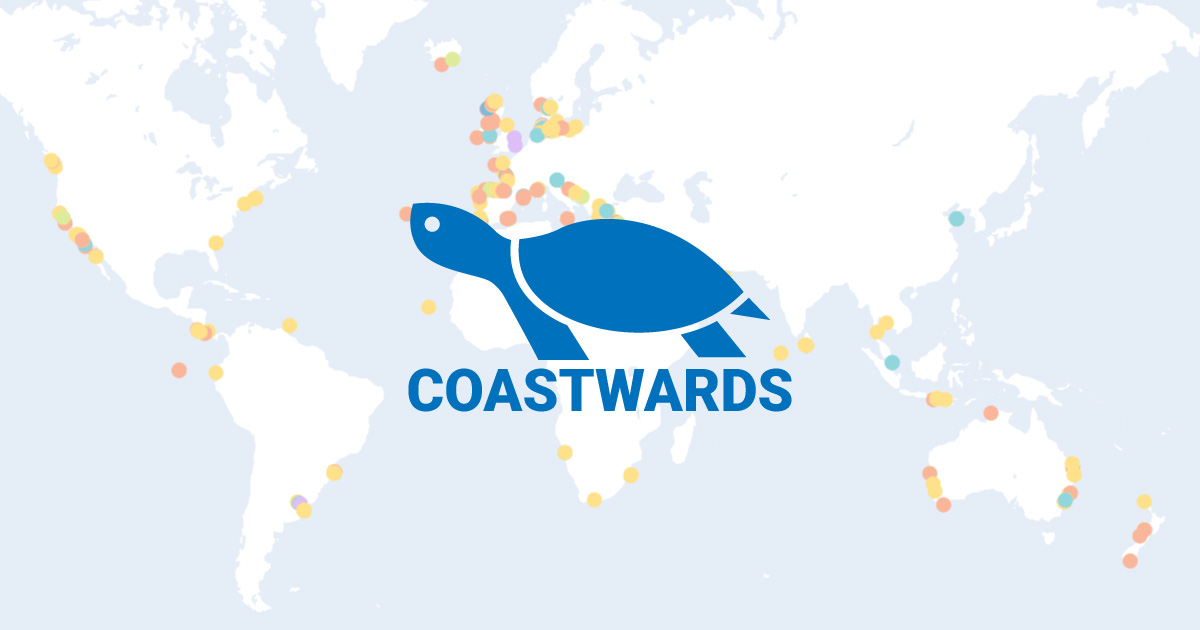
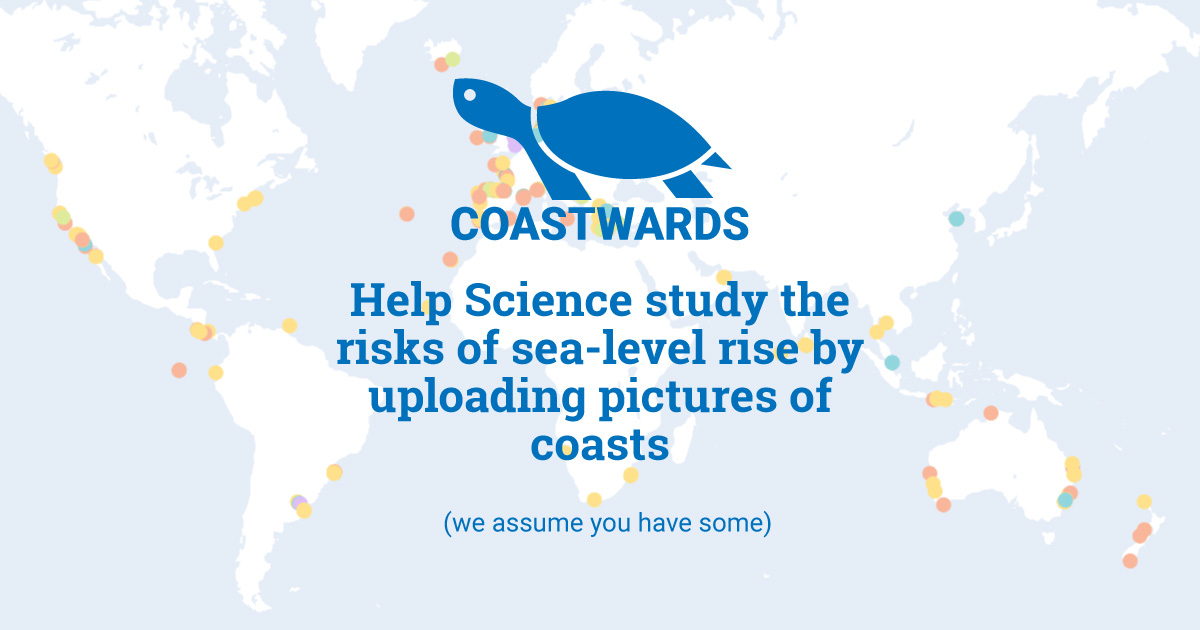
Facebook poster

Changed region(s): [[0.2775, 0.1206, 0.74, 0.754], [0.37, 0.8143, 0.6475, 0.8444]]

diff --git a/app/redux/components/context.jsx b/app/redux/components/context.jsx
@@ -153,8 +153,8 @@ const context = ( { intl, lang, dir, jazzSupported, clipped, useraction, scrollY
 					<I18nLinks availableLanguages={ i18nLocales.locales } className={ style.i18n } />
 					<IMG src="./assets/coastwards-white.svg" alt="Logo coastwards: A turtle on a mission" className={ style.logo } />
 					<H priority={ 1 } className={ style.headline } ><span>{ formatMessage( messages.help_science ) }</span> <span>{ formatMessage( messages.by ) }</span></H>
-					<H priority={ 1 } className={ style.comment } >{ formatMessage( messages.we_know ) }</H>
-					<H priority={ 2 } className={ style.tagline } >{ formatMessage( messages.no_account ) }</H>
+					<H priority={ 2 } className={ style.comment } >{ formatMessage( messages.we_know ) }</H>
+					<H priority={ 3 } className={ style.tagline } >{ formatMessage( messages.no_account ) }</H>
 				</DIV>
 				<DIV id="Info"className={ clsInfo }>
 					<How />

diff --git a/app/redux/components/_context.scss b/app/redux/components/_context.scss
@@ -289,25 +289,25 @@
 
 		@include portrait( ){
 
-			max-width: 70vw;
+			max-width: 60vw;
 
 		}
 
 		@include landscape( ){
 
-			max-width: 70vh;
+			max-width: 60vh;
 
 		}
 
 		@include portraitMin( $tablet ){
 
-			max-width: 70vw;
+			max-width: 60vw;
 
 		}
 
 		@include landscapeMin( $tablet ){
 
-			max-width: 70vh;
+			max-width: 60vh;
 
 		}
 
@@ -333,23 +333,11 @@
 
 			font-size: 64px;
 
-			span{
-
-				//display: block;
-
-			}
-
 		}
 
 		@include landscapeMin( $desktop ){
 
 			font-size: 64px;
-
-			span{
-
-				//display: block;
-
-			}
 
 		}
 
@@ -359,6 +347,7 @@
 
 		text-align: center;
 		font-size: 24px;
+		font-weight: 400;
 
 		@include portraitMin( $desktop ){
 
